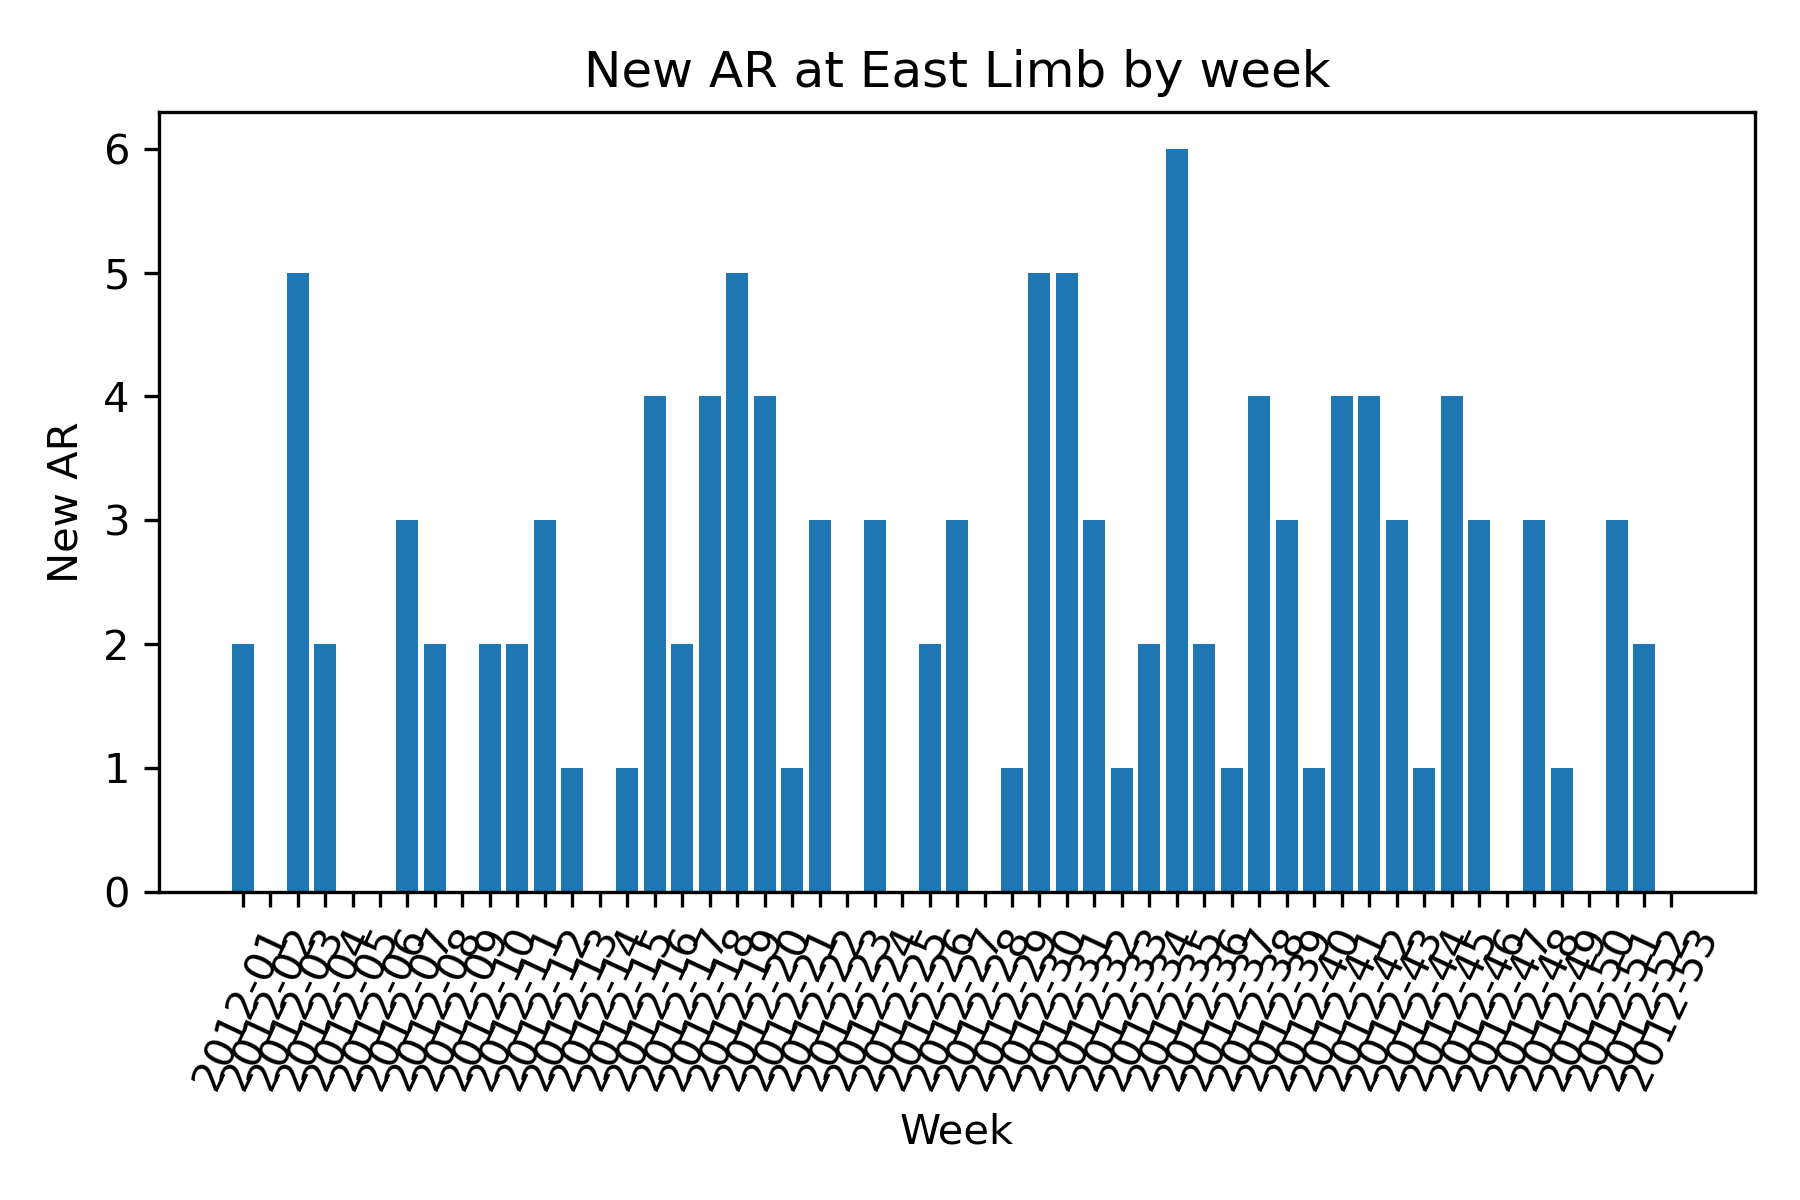
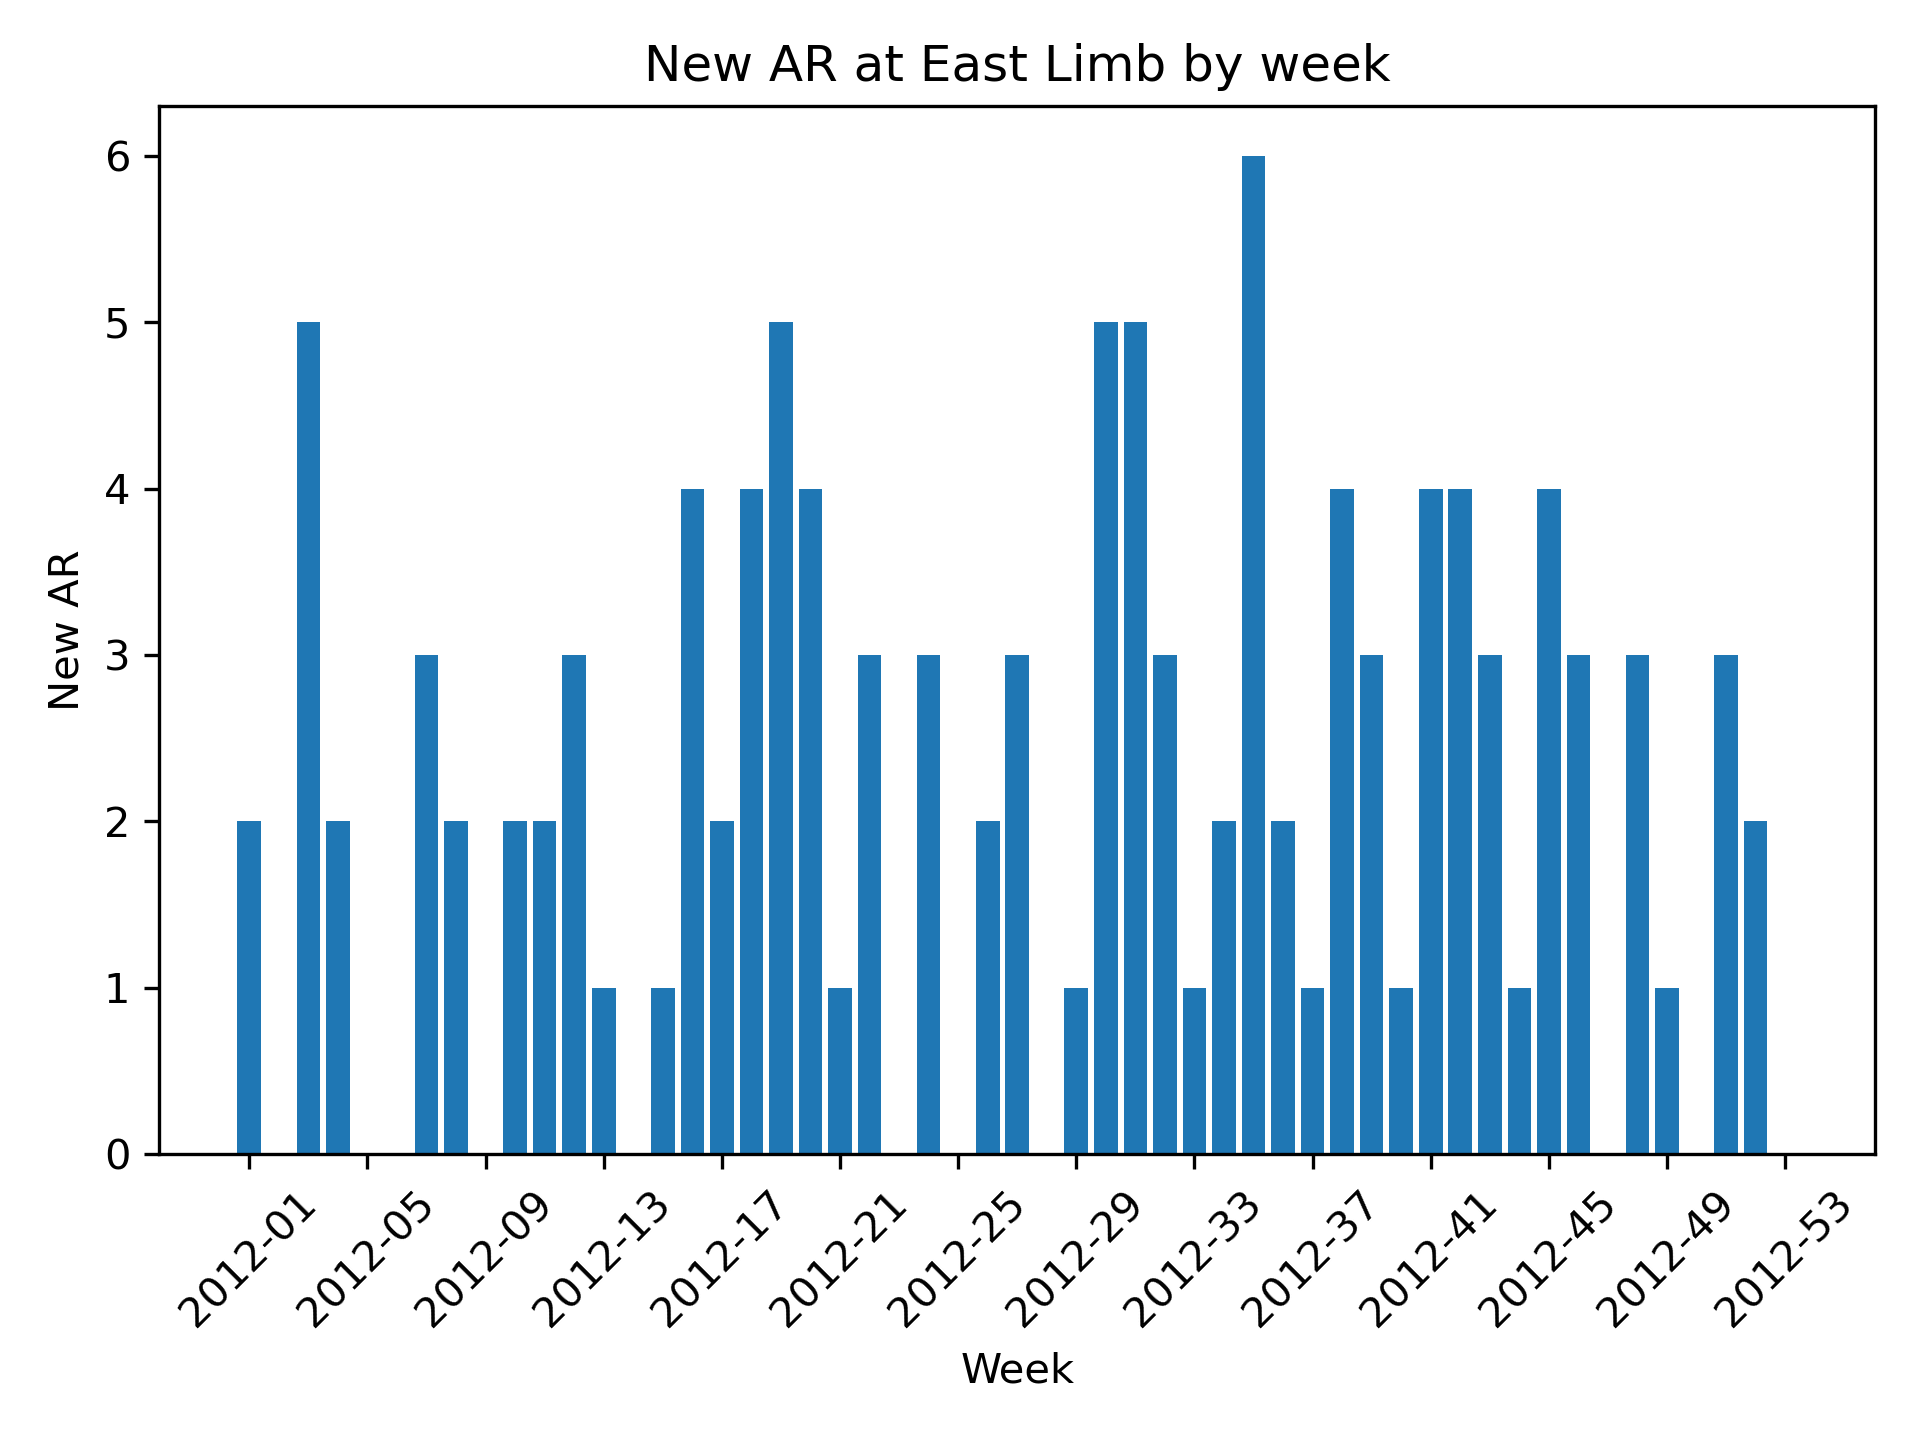
Se sube el código corregido para automatizar el histograma final por año

diff --git a/NearSide-data/2012/NOA_NearSide_Data/newAR_histogram.py b/NearSide-data/2012/NOA_NearSide_Data/newAR_histogram.py
@@ -1,0 +1,108 @@
+#!/usr/bin/env python3
+# -*- coding: utf-8 -*-
+"""
+Created on Tue Oct 31 00:33:52 2023
+
+@author: daniel
+"""
+
+'''
+    Este código crea un histograma de las tablas que contienen las nuevas AR en el limbo por semana y las semanas que no tienen las
+    crea y les asigna el valor 0
+'''
+
+import os
+import pandas as pd
+import matplotlib.pyplot as plt
+from datetime import datetime, timedelta
+#import sys
+import argparse
+
+def main(year):
+    # Carpeta actual (donde se encuentra el programa .py)
+    #carpeta = os.getcwd()
+    
+    carpeta= os.path.expanduser(f"~/Documentos/GoSA/Far_Side/FarSide-data/NearSide-data/{year}/NOA_NearSide_Data/AR_at_Limb")
+    tabla_salida=os.path.join(carpeta, 'histogramtable.csv')
+    figura_salida=os.path.join(carpeta,'newARatEastLimb_histogram.png')
+    '''
+    if __name__ == "__main__":
+        if len(sys.argv) < 2:
+            sys.exit(1)
+    
+        year_str = sys.argv[1]  # Obtiene el año como cadena
+        year = int(year_str)  # Intenta convertir la cadena a un entero
+     '''
+    anho=int(year)       
+    # Definir el rango de fechas de interés como objetos datetime
+    fecha_inicio = datetime(anho, 1, 1)
+    fecha_fin = datetime(anho, 12, 31)
+    
+    # Inicializa un diccionario para contar las filas únicas por semana
+    filas_por_semana = {}
+    
+    # Recorre todos los archivos CSV en la carpeta
+    for archivo in os.listdir(carpeta):
+        if archivo.endswith('.csv'):
+            # Extrae la fecha del nombre del archivo
+            fecha_str = archivo.split('.')[0]
+            fecha = datetime.strptime(fecha_str, '%Y%m%d').date()
+    
+            # Convierte la fecha a un objeto datetime completo
+            fecha = datetime(fecha.year, fecha.month, fecha.day)
+    
+            # Verifica si la fecha está dentro del rango de interés
+            if fecha_inicio <= fecha <= fecha_fin:
+                # Carga el archivo CSV en un DataFrame de pandas
+                df = pd.read_csv(os.path.join(carpeta, archivo))
+    
+                # Cuenta las filas únicas basadas en la columna "Number"
+                filas_unicas = df['Number'].nunique()
+    
+                # Agrupa las filas únicas por semana
+                semana = fecha.strftime('%Y-%U')
+                filas_por_semana[semana] = filas_por_semana.get(semana, 0) + filas_unicas
+    
+    # Convierte el diccionario en un DataFrame para crear el histograma
+    df_histograma = pd.DataFrame(list(filas_por_semana.items()), columns=['Semana', 'Filas_unicas'])
+    
+    # Ordena las filas en función de la columna "Semana"
+    df_histograma.sort_values(by='Semana', inplace=True)
+    
+    # Crea un DataFrame con todas las semanas dentro del rango de fechas
+    semanas_en_rango = []
+    fecha_actual = fecha_inicio
+    while fecha_actual <= fecha_fin:
+        semana = fecha_actual.strftime('%Y-%U')
+        semanas_en_rango.append(semana)
+        fecha_actual += timedelta(weeks=1)
+    
+    # Crea un DataFrame con todas las semanas y fusiona con el histograma
+    df_todas_semanas = pd.DataFrame({'Semana': semanas_en_rango})
+    df_histograma = df_todas_semanas.merge(df_histograma, on='Semana', how='left')
+    
+    # Rellena los valores NaN con 0 (semanas sin datos)
+    df_histograma['Filas_unicas'].fillna(0, inplace=True)
+    
+    # Crea un histograma de las filas únicas por semana
+    plt.bar(df_histograma['Semana'], df_histograma['Filas_unicas'])
+    plt.xlabel('Week')
+    plt.ylabel('New AR')
+    plt.xticks(rotation=45)
+    
+    marcadores = df_histograma['Semana'][::4]
+    plt.xticks(marcadores, marcadores, rotation=45)
+    
+    plt.title('New AR at East Limb by week')
+    plt.tight_layout()
+    plt.savefig(figura_salida , dpi=300)
+    plt.show()
+    print(df_histograma)
+    df_histograma.to_csv(tabla_salida , index=False)
+    
+if __name__ == "__main__":
+    parser = argparse.ArgumentParser(description="Combina tablas para un anho dado.")
+    parser.add_argument("year", type=str, help="Anho para combinar las tablas")
+
+    args = parser.parse_args()
+    main(args.year)

diff --git a/NearSide-data/2012/NOA_NearSide_Data/to_heliographic_and_ARatLimb.py b/NearSide-data/2012/NOA_NearSide_Data/to_heliographic_and_ARatLimb.py
@@ -8,7 +8,8 @@ import numpy as np
 from datetime import datetime, timedelta
 import pandas as pd
 import os
-import sys
+#import sys
+import argparse
 
 '''
 if __name__ == "__main__":
@@ -18,7 +19,7 @@ if __name__ == "__main__":
     year = sys.argv[1]  # Obtiene el a√±o como cadena
 '''
 def main(year):
-    day = year+'-01-01'
+    day = year+'-05-17'
     fecha_fin = year+'-12-31'
     imprimir_fechas_en_rango(day, fecha_fin) 
 
@@ -91,6 +92,13 @@ def archivo_AR_Limbo(day):
    # IA. H-alpha Plages without Spots
     #srs_table = srs_table[np.logical_or(srs_table['ID'] == 'I', srs_table['ID'] == 'IA')]
             print(nueva_tabla)
+
+if __name__ == "__main__":
+    parser = argparse.ArgumentParser(description="Combina tablas para un año dado.")
+    parser.add_argument("year", type=str, help="Año para combinar las tablas")
+
+    args = parser.parse_args()
+    main(args.year)
 
 '''
 # Ejemplo de uso
